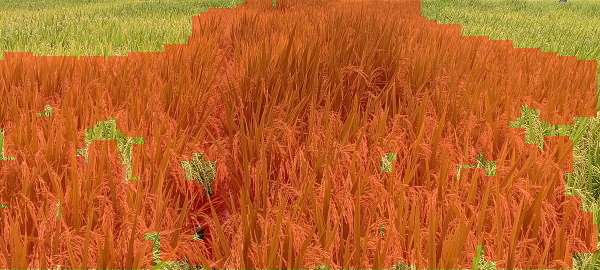
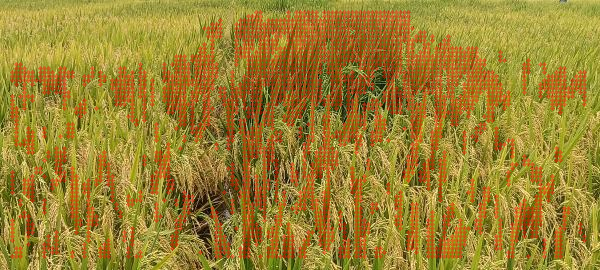
changed

diff --git a/test_cnn.py b/test_cnn.py
@@ -2,13 +2,13 @@ import os
 import cv2
 import numpy as np
 import torch
-from sklearn.metrics import classification_report, confusion_matrix
+from sklearn.metrics import classification_report, confusion_matrix, accuracy_score
 from model import PatchCNN, PATCH_SIZE, STRIDE
 
+# ===== Paths =====
 TEST_DIR   = "dataset/tests/"
 MASK_DIR   = "dataset/masks/"
 OUTPUT_DIR = "dataset/output/"
-
 os.makedirs(OUTPUT_DIR, exist_ok=True)
 
 DEVICE = "cuda" if torch.cuda.is_available() else "cpu"
@@ -16,6 +16,7 @@ DEVICE = "cuda" if torch.cuda.is_available() else "cpu"
 
 def test():
 
+    # ===== Load model =====
     model = PatchCNN().to(DEVICE)
     model.load_state_dict(torch.load("patch_cnn_model.pth", map_location=DEVICE))
     model.eval()
@@ -33,42 +34,48 @@ def test():
         img = cv2.imread(os.path.join(TEST_DIR, fname))
         h, w = img.shape[:2]
 
-        pred_mask = np.zeros((h,w), dtype=np.uint8)
+        pred_mask = np.zeros((h, w), dtype=np.uint8)
 
+        # ===== Sliding patches =====
         for y in range(0, h-PATCH_SIZE+1, STRIDE):
             for x in range(0, w-PATCH_SIZE+1, STRIDE):
 
                 patch = img[y:y+PATCH_SIZE, x:x+PATCH_SIZE]
-                patch = (patch/255.0).astype(np.float32)
-                patch = np.transpose(patch,(2,0,1))
+                patch = (patch / 255.0).astype(np.float32)
+                patch = np.transpose(patch, (2,0,1))
 
                 tensor = torch.tensor(patch).unsqueeze(0).to(DEVICE)
 
                 with torch.no_grad():
                     pred = model(tensor).argmax(1).item()
 
+                # ⭐ Mark a small circle instead of a single pixel
+                c = PATCH_SIZE // 2
                 if pred == 1:
-                    pred_mask[y:y+PATCH_SIZE, x:x+PATCH_SIZE] = 1
+                    cv2.circle(pred_mask, (x+c, y+c), 2, 1, -1)  # radius=2, filled circle
 
-
+        # ===== Overlay visualization =====
         overlay = img.copy()
-        overlay[pred_mask==1] = [0,0,255]
+        overlay[pred_mask==1] = [0,0,255]   # red for anomalies
         result = cv2.addWeighted(img, 0.7, overlay, 0.4, 0)
 
-        cv2.imwrite(os.path.join(OUTPUT_DIR, fname.replace(".jpg","_cnn.png")), result)
+        out_path = os.path.join(OUTPUT_DIR, fname.replace(".jpg","_cnn.png"))
+        cv2.imwrite(out_path, result)
         print(fname, "-> saved")
 
-
-        gt = cv2.imread(os.path.join(MASK_DIR, fname.replace(".jpg",".png")))
+        # ===== Metrics =====
+        mask_path = os.path.join(MASK_DIR, fname.replace(".jpg",".png"))
+        gt = cv2.imread(mask_path)
 
         if gt is not None:
             gt_bin = (gt[:,:,2] > 150).astype(np.uint8)
             y_true.extend(gt_bin.flatten())
             y_pred.extend(pred_mask.flatten())
 
-
+    # ===== Evaluation =====
     if len(y_true) > 0:
         print("\n📊 Evaluation")
+        print("Accuracy:", accuracy_score(y_true, y_pred))
         print(classification_report(y_true, y_pred))
         print("Confusion Matrix:\n", confusion_matrix(y_true, y_pred))
 
